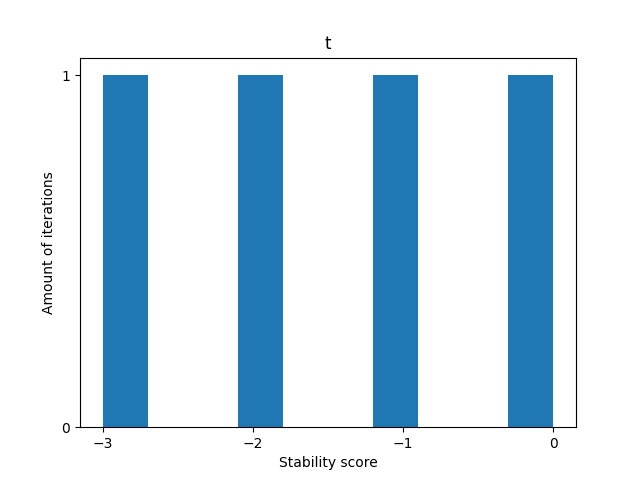
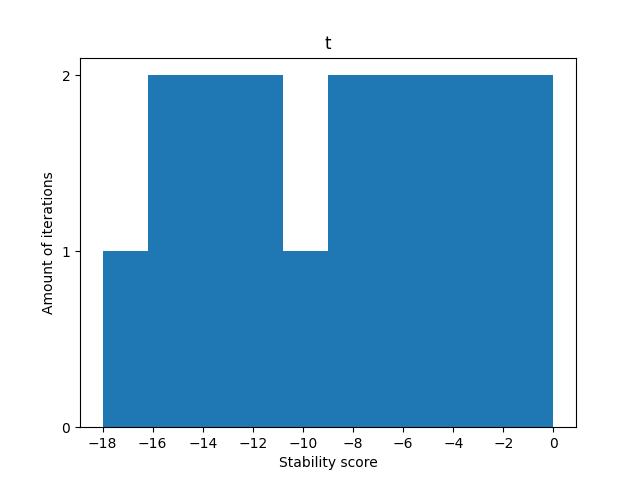
fixed visualization of the bar plot

diff --git a/code/visualisation/visualize.py b/code/visualisation/visualize.py
@@ -54,32 +54,35 @@ def visualize(lst):
     plt.savefig("data/output/grid.png", format="png")
 
 
-def hist(algorithm, algor):
+def bar(algorithm, algor):
     '''
     Plot solutions of the used algorithm in a histogram.
     '''
-    dictonary = algorithm.sol_dict
-    new_dictonary = {str((k)):v1 for k, v in dictonary.items() for v1 in v.items()}
-    # new_dictonary = {str((k,k1)):v1 for k, v in dictonary.items() for k1,v1 in v.items()}
-    plt.figure()
-    plt.bar(new_dictonary.keys(), new_dictonary.values(), width=.5, color='g')
-    plt.savefig("data/output/hist.png", format="png")
-    
     # TODO --------------------------------------------------- Eigen functie?
     # Show the amount of each stability score that is found
     for key in sorted(algorithm.sol_dict):
         print(f"{key}: {algorithm.sol_dict[key]}")
     
     ###################################################
-    data = []
-    for i in algorithm.solutions:
-        data.append(i)
+    # data = []
+    # for i in algorithm.solutions:
+    #     data.append(i)
     ###################################################
+
+    # TODO -----------------------------------------------------
+    # Plot all stability scores + aantal voorkomen
     plt.figure()
-    plt.hist(algorithm.sol_dict)
+    plt.bar(list(algorithm.sol_dict.keys()), algorithm.sol_dict.values(), color='b')
 
     # Set both the X- and Y-axis to integer values and label those
     ax = plt.gca()
+
+    # Create a list of all labels (keys)
+    x_labels = []
+    all_scores = []
+    for key in algorithm.sol_dict:  
+        x_labels.append(key)
+        all_scores.append(key)
 
     # Set correct y-axis label for different algorithms
     if algor == 'd':
@@ -88,12 +91,15 @@ def hist(algorithm, algor):
         plt.ylabel('Amount of iterations')
 
     ax.yaxis.set_major_locator(MaxNLocator(integer=True))
-    plt.xlabel('Stability score')
-    ax.xaxis.set_major_locator(MaxNLocator(integer=True))
 
-    # Give a title to the hist plot
+    ax.set_xticks(all_scores)
+    ax.set_xticklabels(x_labels)
+    plt.xlabel('Stability score')
+    # ax.xaxis.set_major_locator(MaxNLocator(integer=True))
+
+    # Give a title to the bar plot
     while True:
-        name = input("What title should I give the hist plot?\n")
+        name = input("What title should I give the bar plot?\n")
         try:
             name = str(name)
             break
@@ -101,4 +107,4 @@ def hist(algorithm, algor):
             print("Please give a valid title (string).")
     
     plt.title(name)
-    plt.savefig("data/output/hist.png", format="png")
+    plt.savefig("data/output/bar.png", format="png")

diff --git a/main.py b/main.py
@@ -15,7 +15,7 @@ from code.algorithms.randomize import Random
 from code.algorithms.greedy import Greedy, GreedyLookahead
 from code.algorithms.hill_climber import HillClimber, HillClimber_Pull
 from code.visualisation.output import writecsv
-from code.visualisation.visualize import visualize, hist
+from code.visualisation.visualize import visualize, bar
 from code.algorithms.simulated_annealing import Simulated_Annealing, Simulated_Annealing_Pull
 from code.algorithms.depth_first import DepthFirst
 import time
@@ -134,8 +134,8 @@ if __name__ == "__main__":
         print("Algoritm took %s seconds to run (without visualisation)" % (time.time() - start_time))
         best = art.get_best()
     
-    hist(art, algor)
     writecsv(protein, best)
     visualize(best)
+    bar(art, algor)
 
     print("Program completed!")

diff --git a/code/algorithms/randomize.py b/code/algorithms/randomize.py
@@ -113,13 +113,13 @@ class Random():
 
 
         # TODO -----------------------------------------------------------
-        self.solutions.append(score)
+        self.solutions.append(protein.score)
 
         # Count all found stability scores
-        if score in self.sol_dict.keys():
-            self.sol_dict[score] += 1
+        if protein.score in self.sol_dict.keys():
+            self.sol_dict[protein.score] += 1
         else:
-            self.sol_dict[score] = 1
+            self.sol_dict[protein.score] = 1
 
         protein.clear_protein()
 
